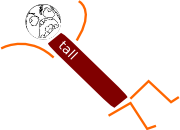
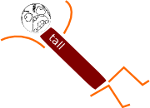
Change sprites size and plug the game to menu

diff --git a/jailbreakerz/jailbreakerz.py b/jailbreakerz/jailbreakerz.py
@@ -8,6 +8,8 @@ from cocos.menu import *
 from cocos.text import *
 import pyglet
 
+import game
+
 class Background(Layer):
     def __init__(self):
         super(Background, self).__init__()
@@ -49,7 +51,8 @@ class MainMenu(Menu):
         self.create_menu(items)
 
     def on_start(self):
-        pass
+        game_scene = Scene(game.Game())
+        director.replace(game_scene)
 
     def on_credits(self):
         pass

diff --git a/jailbreakerz/game.py b/jailbreakerz/game.py
@@ -9,7 +9,7 @@ class Game(cocos.layer.Layer):
 
 	def load_sprites(self):
 		self.prison = cocos.sprite.Sprite('media/imgs/prison.png')
-		self.prison.position = 200,160
+		self.prison.position = 100,170
 		self.add(self.prison)
 
 		self.fuu = cocos.sprite.Sprite('media/imgs/tall_thief.png')
